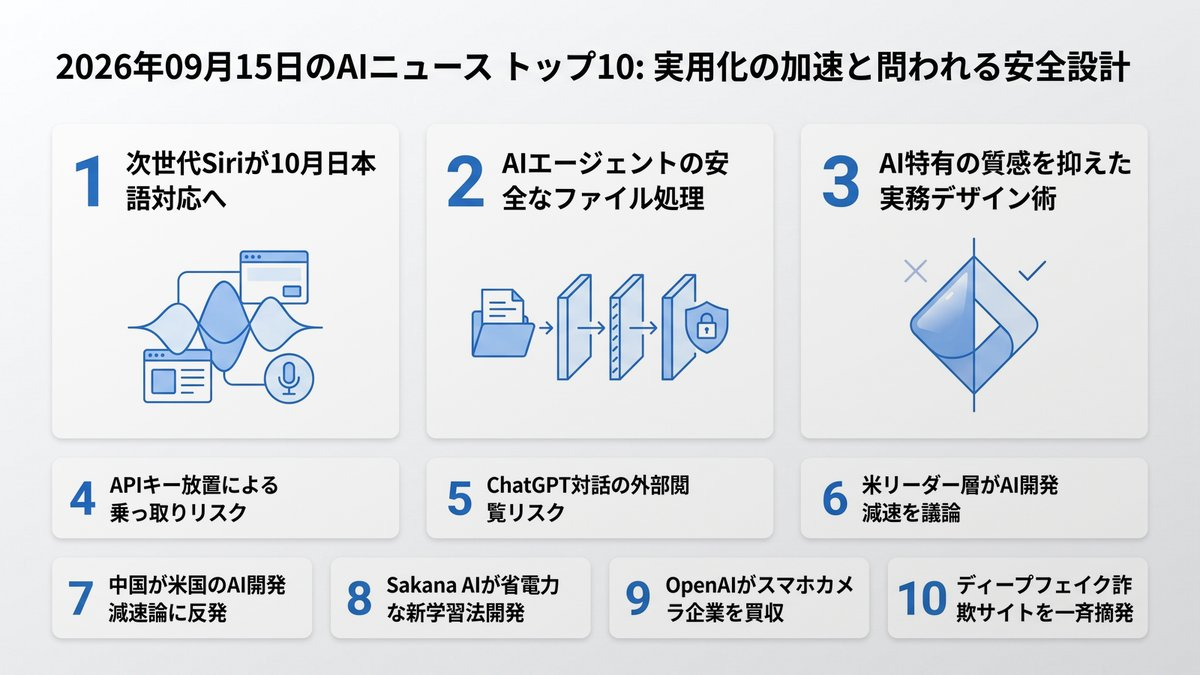
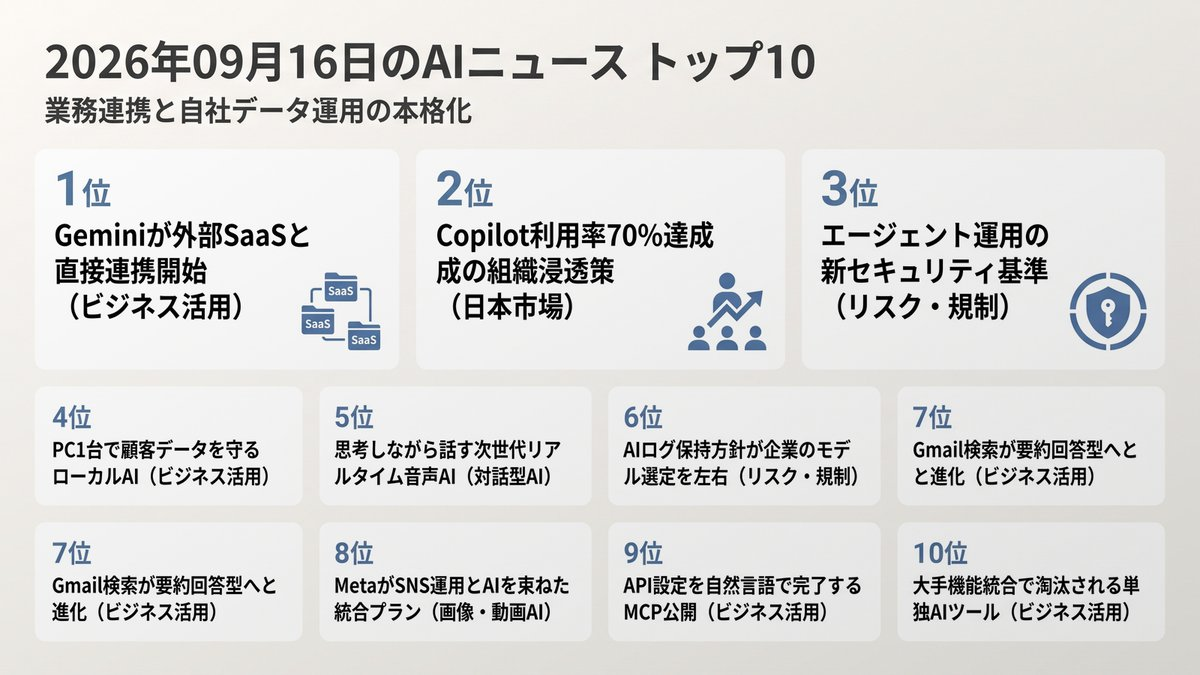
Morning Brief delivered [skip ci]

diff --git a/docs/index.html b/docs/index.html
@@ -12,16 +12,16 @@
     <!-- OGP_START -->
 <meta property="og:type" content="website">
 <meta property="og:site_name" content="AI ニュース TOP10">
-<meta property="og:title" content="実用化の加速と問われる安全設計 | AI ニュース TOP10">
-<meta property="og:description" content="便利さの進展と同時に、利用規約やセキュリティ設計を今一度点検しましょう。 本日のトップ: 次世代Siriが10月日本語対応へ">
+<meta property="og:title" content="業務連携と自社データ運用の本格化 | AI ニュース TOP10">
+<meta property="og:description" content="ツール連携とデータ統制、実務実装の段階へ 本日のトップ: Geminiが外部SaaSと直接連携開始">
 <meta property="og:image" content="https://tadfuji.github.io/ai-news-bot/ogp_card.jpg">
 <meta property="og:url" content="https://tadfuji.github.io/ai-news-bot/">
 <meta name="twitter:card" content="summary_large_image">
-<meta name="twitter:title" content="実用化の加速と問われる安全設計 | AI ニュース TOP10">
-<meta name="twitter:description" content="便利さの進展と同時に、利用規約やセキュリティ設計を今一度点検しましょう。">
+<meta name="twitter:title" content="業務連携と自社データ運用の本格化 | AI ニュース TOP10">
+<meta name="twitter:description" content="ツール連携とデータ統制、実務実装の段階へ">
 <meta name="twitter:image" content="https://tadfuji.github.io/ai-news-bot/ogp_card.jpg">
-<meta name="description" content="便利さの進展と同時に、利用規約やセキュリティ設計を今一度点検しましょう。 世界のAIニュースを毎朝日本語で厳選してお届け。">
-<script type="application/ld+json">{"@context": "https://schema.org", "@type": "ItemList", "name": "AI ニュース TOP10 — 実用化の加速と問われる安全設計", "itemListElement": [{"@type": "ListItem", "position": 1, "name": "アップル、iOS 27などを配信開始。「Siri AI」日本語対応は10月予定", "url": "https://www.techno-edge.net/article/2026/09/15/5498.html"}, {"@type": "ListItem", "position": 2, "name": "社内常駐型AIエージェントにおける添付ファイルの安全な取り扱い設計", "url": "https://zenn.dev/hach/articles/chat-agent-attachment-handling-design"}, {"@type": "ListItem", "position": 3, "name": "「AIっぽさ」を排除した実用的なチラシ作成術とプロンプト活用法", "url": "https://www.itmedia.co.jp/business/articles/2609/15/news014.html"}, {"@type": "ListItem", "position": 4, "name": "環境変数のAPIキー放置が招くAIエージェントの内通者化リスク", "url": "https://atmarkit.itmedia.co.jp/ait/articles/2609/16/news013.html"}, {"@type": "ListItem", "position": 5, "name": "OpenAIが契約労働者にChatGPTの会話データを閲覧・評価させている実態", "url": "https://the-decoder.com/openai-has-hundreds-of-contract-workers-reading-your-chatgpt-conversations/"}, {"@type": "ListItem", "position": 6, "name": "米AI企業幹部と政治家がAI開発ペースの減速を巡り議論を展開", "url": "https://www.theverge.com/ai-artificial-intelligence/995141/ai-executives-politicians-safety-regulation-anthropic-dario-amodei"}, {"@type": "ListItem", "position": 7, "name": "中国外務省、米AI企業トップの「開発減速論」や脅威論を批判", "url": "https://www.itmedia.co.jp/news/article/2609/15/2000001469/"}, {"@type": "ListItem", "position": 8, "name": "Sakana AI、誤差逆伝播法に代わる省メモリな新学習手法「PC-ALM」を発表", "url": "https://www.marktechpost.com/2026/09/14/sakana-ai-researchers-introduce-pc-alm-a-layer-local-alternative-to-backpropagation-that-trains-1000-layer-networks/"}, {"@type": "ListItem", "position": 9, "name": "OpenAI、スマホカメラ開発企業Glass Imagingを3億ドル超で買収", "url": "https://techcrunch.com/2026/09/14/openai-buys-smartphone-camera-maker-glass-imaging-for-300-million-report-says/"}, {"@type": "ListItem", "position": 10, "name": "米ニューヨーク検察、悪質な有名人ディープフェイクサイト12件を一斉差押え", "url": "https://www.wired.com/story/new-york-seizes-a-dozen-celebrity-deepfake-websites/"}]}</script>
+<meta name="description" content="ツール連携とデータ統制、実務実装の段階へ 世界のAIニュースを毎朝日本語で厳選してお届け。">
+<script type="application/ld+json">{"@context": "https://schema.org", "@type": "ItemList", "name": "AI ニュース TOP10 — 業務連携と自社データ運用の本格化", "itemListElement": [{"@type": "ListItem", "position": 1, "name": "Google WorkspaceのGemini、SalesforceやAsanaと直接連携可能に", "url": "http://workspaceupdates.googleblog.com/2026/09/connect-to-more-tools-with-gemini-in-Google-Workspace.html"}, {"@type": "ListItem", "position": 2, "name": "アットホーム、Copilot利用率が2カ月で70％へ急増 元営業マネジャーが主導した社内浸透策", "url": "https://www.itmedia.co.jp/business/articles/2609/16/news005.html"}, {"@type": "ListItem", "position": 3, "name": "AIエージェント時代のセキュリティ新基準、APIキーの.env管理からMCPゲートウェイへ", "url": "https://atmarkit.itmedia.co.jp/ait/articles/2609/17/news006.html"}, {"@type": "ListItem", "position": 4, "name": "AMD Radeonを活用した中小企業向けローカルLLM構築法、顧客データを社外に出さず実用化", "url": "https://pc.watch.impress.co.jp/docs/topic/special/2139310.html"}, {"@type": "ListItem", "position": 5, "name": "Google、超低遅延のリアルタイム音声対話モデル『Gemini 3.8 Live』提供開始", "url": "https://www.marktechpost.com/2026/09/15/google-releases-gemini-3-8-live-and-3-8-live-extended-thinking-for-production-grade-voice-agents/"}, {"@type": "ListItem", "position": 6, "name": "Anthropicの利用ログ30日保管方針で米大手顧客が反発、AIモデル選定の新課題に", "url": "https://the-decoder.com/ai-labs-have-a-data-trust-problem-that-their-policies-havent-solved/"}, {"@type": "ListItem", "position": 7, "name": "Gmailの検索バーでAIがメールを要約する『AI Overviews』が全世界に展開", "url": "http://workspaceupdates.googleblog.com/2026/09/gmail-searchs-ai-overviews-now-available-globally.html"}, {"@type": "ListItem", "position": 8, "name": "Meta、AI機能やビジネスツールを統合した新サブスク『Meta One』を発表", "url": "https://www.techno-edge.net/article/2026/09/16/5501.html"}, {"@type": "ListItem", "position": 9, "name": "Meta、AIエージェントによるWhatsApp Businessの初期設定自動化を支援", "url": "https://techcrunch.com/2026/09/15/meta-now-lets-ai-agents-handle-the-boring-parts-of-whatsapp-business-setup/"}, {"@type": "ListItem", "position": 10, "name": "消えゆくAI製品の教訓、大手プラットフォーム機能への統合と単独ツールの生存競争", "url": "https://techcrunch.com/2026/09/15/the-ai-graveyard-a-running-list-of-projects-and-startups-that-didnt-make-it/"}]}</script>
 <!-- OGP_END -->
     <style>
         :root {
@@ -391,16 +391,16 @@
 
         <main id="news-container">
             <!-- PRERENDER_START -->
-<article class="news-card" data-category="日本市場"><div style="display:flex;align-items:center;margin-bottom:5px;"><span class="news-rank">1</span><span class="news-category" data-category="日本市場">日本市場</span></div><div class="news-oneliner">💡 次世代Siriが10月日本語対応へ</div><h2 class="news-title">アップル、iOS 27などを配信開始。「Siri AI」日本語対応は10月予定</h2><p class="news-summary">アップルが最新OSを一斉配信し、Apple Intelligence基盤のSiri AIを発表しました。アプリ横断での文脈理解や画面認識による作業支援、文章補助機能が順次展開され、日本語対応は10月に提供予定です。</p><div class="news-why">📌 なぜ重要？ 日常的に使うモバイル端末でエージェント機能が標準化され、個人の業務効率化が一段と加速します。</div><div class="news-action">👉 今日の行動：iOS端末のアップデート準備とApple Intelligenceの対応要件を確認してみましょう。</div><div class="news-meta"><span class="news-source">📰 TechnoEdge</span><span class="news-link"><a href="https://www.techno-edge.net/article/2026/09/15/5498.html" target="_blank" rel="noopener">→ 元記事を読む</a></span></div></article>
-<article class="news-card" data-category="リスク・規制"><div style="display:flex;align-items:center;margin-bottom:5px;"><span class="news-rank">2</span><span class="news-category" data-category="リスク・規制">リスク・規制</span></div><div class="news-oneliner">💡 AIエージェントの安全なファイル処理</div><h2 class="news-title">社内常駐型AIエージェントにおける添付ファイルの安全な取り扱い設計</h2><p class="news-summary">チャットツール常駐型エージェントにファイルを渡す際のプロンプトインジェクション等のリスクと防御策を解説。受信から利用までを多段階に分離し、安全にデータを参照させるパイプライン設計の指針を示しています。</p><div class="news-why">📌 なぜ重要？ 社内チャットへのAI導入が進む中、添付ファイル経由の不正プロンプト混入は看過できない脅威です。</div><div class="news-action">👉 今日の行動：社内で利用中のAIツールに添付ファイルを送信する際のセキュリティ運用基準を点検してください。</div><div class="news-meta"><span class="news-source">📰 Zenn LLM</span><span class="news-link"><a href="https://zenn.dev/hach/articles/chat-agent-attachment-handling-design" target="_blank" rel="noopener">→ 元記事を読む</a></span></div></article>
-<article class="news-card" data-category="ビジネス活用"><div style="display:flex;align-items:center;margin-bottom:5px;"><span class="news-rank">3</span><span class="news-category" data-category="ビジネス活用">ビジネス活用</span></div><div class="news-oneliner">💡 AI特有の質感を抑えた実務デザイン術</div><h2 class="news-title">「AIっぽさ」を排除した実用的なチラシ作成術とプロンプト活用法</h2><p class="news-summary">画像生成AI特有の過度な光沢や不自然さを排し、実務で通じる販促物を作るプロンプト技術を解説。生成AIには素材作りに専念させ、文字配置などは既存デザインツールで行う分業手法が提案されています。</p><div class="news-why">📌 なぜ重要？ 生成AIをそのまま使うのではなく、人間とツールの役割分担を明確にすることで実用的な成果物が得られます。</div><div class="news-action">👉 今日の行動：生成AIで素材を作成し、文字入れは別ツールで行うハイブリッド作成を試行してみてください。</div><div class="news-meta"><span class="news-source">📰 ITmedia ビジネスオンライン</span><span class="news-link"><a href="https://www.itmedia.co.jp/business/articles/2609/15/news014.html" target="_blank" rel="noopener">→ 元記事を読む</a></span></div></article>
-<article class="news-card" data-category="リスク・規制"><div style="display:flex;align-items:center;margin-bottom:5px;"><span class="news-rank">4</span><span class="news-category" data-category="リスク・規制">リスク・規制</span></div><div class="news-oneliner">💡 APIキー放置による乗っ取りリスク</div><h2 class="news-title">環境変数のAPIキー放置が招くAIエージェントの内通者化リスク</h2><p class="news-summary">AIエージェントに固定的なAPIキーを与えたまま自律動作させることの危険性を指摘。プロンプトインジェクションによりキーが搾取され、内部侵入の踏み台にされるリスクに備えた権限分離の必要性を説いています。</p><div class="news-why">📌 なぜ重要？ 自律的に動くエージェントには過剰権限を与えず、最小限のアクセス管理を行う設計が急務です。</div><div class="news-action">👉 今日の行動：利用中の社内AIスクリプトやツールで、APIキーの権限範囲が過大になっていないか確認しましょう。</div><div class="news-meta"><span class="news-source">📰 ITmedia AI+</span><span class="news-link"><a href="https://atmarkit.itmedia.co.jp/ait/articles/2609/16/news013.html" target="_blank" rel="noopener">→ 元記事を読む</a></span></div></article>
-<article class="news-card" data-category="リスク・規制"><div style="display:flex;align-items:center;margin-bottom:5px;"><span class="news-rank">5</span><span class="news-category" data-category="リスク・規制">リスク・規制</span></div><div class="news-oneliner">💡 ChatGPT対話の外部閲覧リスク</div><h2 class="news-title">OpenAIが契約労働者にChatGPTの会話データを閲覧・評価させている実態</h2><p class="news-summary">OpenAIが外部契約者を用いてChatGPTの会話履歴を閲覧・評価させていた実態が報道されました。オプトアウトされていない個人利用アカウントなどで機密情報が第三者の目に触れる懸念が再燃しています。</p><div class="news-why">📌 なぜ重要？ 業務利用時のオプトアウト設定やエンタープライズ契約の重要性が改めて問われています。</div><div class="news-action">👉 今日の行動：個人・社内のChatGPT設定でデータ学習オプトアウトが有効になっているか見直してください。</div><div class="news-meta"><span class="news-source">📰 The Decoder</span><span class="news-link"><a href="https://the-decoder.com/openai-has-hundreds-of-contract-workers-reading-your-chatgpt-conversations/" target="_blank" rel="noopener">→ 元記事を読む</a></span></div></article>
-<article class="news-card" data-category="リスク・規制"><div style="display:flex;align-items:center;margin-bottom:5px;"><span class="news-rank">6</span><span class="news-category" data-category="リスク・規制">リスク・規制</span></div><div class="news-oneliner">💡 米リーダー層がAI開発減速を議論</div><h2 class="news-title">米AI企業幹部と政治家がAI開発ペースの減速を巡り議論を展開</h2><p class="news-summary">AnthropicのCEOらが安全対策と検証のために開発ペース減速の必要性を訴え、政界を巻き込んだ議論が勃発。フロンティアモデルの進化速度と法的規制のバランスを巡る国際的議論が激化しています。</p><div class="news-why">📌 なぜ重要？ 規制議論の動向は将来的なAIモデルの提供スピードや利用規約に直接的な影響を及ぼします。</div><div class="news-action">👉 今日の行動：主要AIベンダー各社の安全性ポリシーや開発ロードマップの発表に目を通してみましょう。</div><div class="news-meta"><span class="news-source">📰 The Verge AI</span><span class="news-link"><a href="https://www.theverge.com/ai-artificial-intelligence/995141/ai-executives-politicians-safety-regulation-anthropic-dario-amodei" target="_blank" rel="noopener">→ 元記事を読む</a></span></div></article>
-<article class="news-card" data-category="中国AI"><div style="display:flex;align-items:center;margin-bottom:5px;"><span class="news-rank">7</span><span class="news-category" data-category="中国AI">中国AI</span></div><div class="news-oneliner">💡 中国が米国のAI開発減速論に反発</div><h2 class="news-title">中国外務省、米AI企業トップの「開発減速論」や脅威論を批判</h2><p class="news-summary">米AI企業による減速論や輸出規制要請に対し、中国外務省はAIガバナンスを阻害する悪質な競争だと反発。中国は新興国向けのオープンソースAI基盤推進を掲げ、米中での技術覇権争いが続いています。</p><div class="news-why">📌 なぜ重要？ 米中の対立激化はオープンソースモデルの普及速度やグローバルサプライチェーンに影響を与えます。</div><div class="news-action">👉 今日の行動：Qwenなど中国発オープンソースモデルの進化動向とライセンス形態を情報収集してください。</div><div class="news-meta"><span class="news-source">📰 ITmedia AI+</span><span class="news-link"><a href="https://www.itmedia.co.jp/news/article/2609/15/2000001469/" target="_blank" rel="noopener">→ 元記事を読む</a></span></div></article>
-<article class="news-card" data-category="研究・技術"><div style="display:flex;align-items:center;margin-bottom:5px;"><span class="news-rank">8</span><span class="news-category" data-category="研究・技術">研究・技術</span></div><div class="news-oneliner">💡 Sakana AIが省電力な新学習法開発</div><h2 class="news-title">Sakana AI、誤差逆伝播法に代わる省メモリな新学習手法「PC-ALM」を発表</h2><p class="news-summary">Sakana AIの研究陣が、誤差逆伝播法を使わずに1000層規模の深層学習を可能にする「PC-ALM」を発表。局所的な更新により脳の仕組みに近い省メモリ・省電力なAI学習の道を切り拓いています。</p><div class="news-why">📌 なぜ重要？ 巨大な計算資源を要するAI学習のコスト構造を根本から変革する可能性を秘めたブレイクスルーです。</div><div class="news-action">👉 今日の行動：国内AIスタートアップ発の最新研究論文の概要に目を通し、技術トレンドを把握しましょう。</div><div class="news-meta"><span class="news-source">📰 MarkTechPost</span><span class="news-link"><a href="https://www.marktechpost.com/2026/09/14/sakana-ai-researchers-introduce-pc-alm-a-layer-local-alternative-to-backpropagation-that-trains-1000-layer-networks/" target="_blank" rel="noopener">→ 元記事を読む</a></span></div></article>
-<article class="news-card" data-category="研究・技術"><div style="display:flex;align-items:center;margin-bottom:5px;"><span class="news-rank">9</span><span class="news-category" data-category="研究・技術">研究・技術</span></div><div class="news-oneliner">💡 OpenAIがスマホカメラ企業を買収</div><h2 class="news-title">OpenAI、スマホカメラ開発企業Glass Imagingを3億ドル超で買収</h2><p class="news-summary">OpenAIが撮影時にニューラルネットで画質を向上させるカメラ技術を持つGlass Imagingを買収。独自ハードウェアやスマートデバイスに向けた視覚センシング機能の強化を進めていると見られます。</p><div class="news-why">📌 なぜ重要？ マルチモーダルAIがソフトウェアの枠を超え、専用デバイスやハードウェアへ直接統合される流れを示唆しています。</div><div class="news-action">👉 今日の行動：画像・視覚認識AIが自社の現場業務や製品開発にどう応用できるかアイデアを書き出してみましょう。</div><div class="news-meta"><span class="news-source">📰 TechCrunch AI</span><span class="news-link"><a href="https://techcrunch.com/2026/09/14/openai-buys-smartphone-camera-maker-glass-imaging-for-300-million-report-says/" target="_blank" rel="noopener">→ 元記事を読む</a></span></div></article>
-<article class="news-card" data-category="リスク・規制"><div style="display:flex;align-items:center;margin-bottom:5px;"><span class="news-rank">10</span><span class="news-category" data-category="リスク・規制">リスク・規制</span></div><div class="news-oneliner">💡 ディープフェイク詐欺サイトを一斉摘発</div><h2 class="news-title">米ニューヨーク検察、悪質な有名人ディープフェイクサイト12件を一斉差押え</h2><p class="news-summary">マンハッタン地区検事局が約1200人を標的に偽画像やなりすましを掲載していたサイト12件を差し押さえました。AI悪用によるなりすまし犯罪に対する法的取り締まりが本格化しています。</p><div class="news-why">📌 なぜ重要？ 経営幹部やブランドのなりすまし被害リスクが高まる中、法執行の動きとともに企業側の防衛策も重要になります。</div><div class="news-action">👉 今日の行動：自社のブランド名や役員を装った不審な発信がないか、モニタリング体制を確認してください。</div><div class="news-meta"><span class="news-source">📰 Wired AI</span><span class="news-link"><a href="https://www.wired.com/story/new-york-seizes-a-dozen-celebrity-deepfake-websites/" target="_blank" rel="noopener">→ 元記事を読む</a></span></div></article>
+<article class="news-card" data-category="ビジネス活用"><div style="display:flex;align-items:center;margin-bottom:5px;"><span class="news-rank">1</span><span class="news-category" data-category="ビジネス活用">ビジネス活用</span></div><div class="news-oneliner">💡 Geminiが外部SaaSと直接連携開始</div><h2 class="news-title">Google WorkspaceのGemini、SalesforceやAsanaと直接連携可能に</h2><p class="news-summary">Googleは、Google Workspace上のGeminiにおいて、オープン規格『Model Context Protocol (MCP)』を用いた外部ツール連携機能を一般提供開始しました。ユーザーはDocs、Sheets、Slides、Google Chatなどのサイドパネルからタブを切り替えることなく、Salesforce、HubSpot、Asana、Jira、QuickBooksなどの業務データへ直接アクセスして分析や文章生成を行えるようになります。管理者は管理コンソールから接続先や利用権限を統制可能です。業務ツールの往復作業が劇的に削減され、日常業務の生産性向上が期待されます。</p><div class="news-why">📌 なぜ重要？ ツール間の画面往復が不要になり、日々のドキュメント作成や案件管理のスピードが劇的に向上します。</div><div class="news-action">👉 今日の行動：自社で使っているSaaSとGoogle Workspaceの連携可否を管理者に確認してみましょう。</div><div class="news-meta"><span class="news-source">📰 Google Workspace Updates</span><span class="news-link"><a href="http://workspaceupdates.googleblog.com/2026/09/connect-to-more-tools-with-gemini-in-Google-Workspace.html" target="_blank" rel="noopener">→ 元記事を読む</a></span></div></article>
+<article class="news-card" data-category="日本市場"><div style="display:flex;align-items:center;margin-bottom:5px;"><span class="news-rank">2</span><span class="news-category" data-category="日本市場">日本市場</span></div><div class="news-oneliner">💡 Copilot利用率70%達成の組織浸透策</div><h2 class="news-title">アットホーム、Copilot利用率が2カ月で70％へ急増 元営業マネジャーが主導した社内浸透策</h2><p class="news-summary">不動産情報大手のアットホームは、Microsoft Copilotの有償版導入後、週3日以上利用する社員の割合を2カ月間で47％から70％へと大幅に引き上げました。元営業マネジャーの推進役が主導し、各部門の管理職を『AI推進マネジャー』に任命するとともに、手挙げ制で初心者を含む500人超の『AIアンバサダー』を組織。失敗談や日常の疑問をオープンチャットで共有し合うボトムアップ型の仕組みを構築したことが急成長の要因です。ツール導入にとどまらず、組織全体で活用習慣を定着させる具体的な実践モデルとして日本の多くの企業に示唆を与えます。</p><div class="news-why">📌 なぜ重要？ AIツールの価値は機能の高さ以上に、現場の日常業務にどう根付かせるかの組織設計にかかっています。</div><div class="news-action">👉 今日の行動：部署内でAIの小さな失敗談や成功プロンプトを1つチャットで共有してみてください。</div><div class="news-meta"><span class="news-source">📰 ITmedia ビジネスオンライン</span><span class="news-link"><a href="https://www.itmedia.co.jp/business/articles/2609/16/news005.html" target="_blank" rel="noopener">→ 元記事を読む</a></span></div></article>
+<article class="news-card" data-category="リスク・規制"><div style="display:flex;align-items:center;margin-bottom:5px;"><span class="news-rank">3</span><span class="news-category" data-category="リスク・規制">リスク・規制</span></div><div class="news-oneliner">💡 エージェント運用の新セキュリティ基準</div><h2 class="news-title">AIエージェント時代のセキュリティ新基準、APIキーの.env管理からMCPゲートウェイへ</h2><p class="news-summary">自律的にツールを呼び出すAIエージェントの普及に伴い、従来の.envファイルによるAPIキー管理がセキュリティ上の重大な弱点となっています。エージェントが間接プロンプトインジェクション等で操られた場合、恒久的な権限を持つキーが漏洩して社内システム全体に被害が及ぶ恐れがあります。本稿では、生キーを渡さず短命なトークンを動的発行する『トークンボールト』の導入や、API呼び出しをMCPサーバでラップして最小権限に絞り監査ログを記録するゲートウェイ設計の重要性が提唱されています。企業の安全なエージェント運用に不可欠な知見です。</p><div class="news-why">📌 なぜ重要？ AIエージェントに強い権限を持たせる際の安全対策を怠ると、深刻な企業秘密漏洩につながります。</div><div class="news-action">👉 今日の行動：現在社内で利用しているAIツールの認証キーの保管方法と付与権限を再点検してください。</div><div class="news-meta"><span class="news-source">📰 ITmedia AI+</span><span class="news-link"><a href="https://atmarkit.itmedia.co.jp/ait/articles/2609/17/news006.html" target="_blank" rel="noopener">→ 元記事を読む</a></span></div></article>
+<article class="news-card" data-category="ビジネス活用"><div style="display:flex;align-items:center;margin-bottom:5px;"><span class="news-rank">4</span><span class="news-category" data-category="ビジネス活用">ビジネス活用</span></div><div class="news-oneliner">💡 PC1台で顧客データを守るローカルAI</div><h2 class="news-title">AMD Radeonを活用した中小企業向けローカルLLM構築法、顧客データを社外に出さず実用化</h2><p class="news-summary">機密保持やコストの観点からクラウド型生成AIの導入を躊躇する中小企業向けに、約30万円のGPU『Radeon AI PRO R9700』を搭載したPC1台で運用する自社専用ローカルLLMの実践例が紹介されました。32GBの大容量VRAMにより実用レベルの30B規模モデルを社内完結で稼働可能にし、RAG（検索拡張生成）を組み合わせて営業資料作成、在庫管理、社内調査などの業務を月額利用料ゼロで効率化します。顧客情報や契約書を外部サーバーへ一切送信しない安全な運用形態として注目されます。</p><div class="news-why">📌 なぜ重要？ 高価なクラウド契約を結ばなくても、社内ハードウェアだけで機密データを守りつつ実務AIを運用できる時代に入りました。</div><div class="news-action">👉 今日の行動：クラウドに送れない機密データを取り扱う定型業務を社内で洗い出してみましょう。</div><div class="news-meta"><span class="news-source">📰 PC Watch</span><span class="news-link"><a href="https://pc.watch.impress.co.jp/docs/topic/special/2139310.html" target="_blank" rel="noopener">→ 元記事を読む</a></span></div></article>
+<article class="news-card" data-category="対話型AI"><div style="display:flex;align-items:center;margin-bottom:5px;"><span class="news-rank">5</span><span class="news-category" data-category="対話型AI">対話型AI</span></div><div class="news-oneliner">💡 思考しながら話す次世代リアルタイム音声AI</div><h2 class="news-title">Google、超低遅延のリアルタイム音声対話モデル『Gemini 3.8 Live』提供開始</h2><p class="news-summary">Google DeepMindは、ネイティブ音声対話モデル『Gemini 3.8 Live』および多段階推論を同時に行う『Gemini 3.8 Live Extended Thinking』をAPIとして公開しました。従来の音声認識・LLM・音声合成をつなぐ方式と異なり、会話の流れを止めずにバックグラウンドでツール呼び出しや思考を行いながらスムーズに応答します。97言語の途中切り替えや英数字の正確な聞き取りに対応し、音声ベンチマークで首位を獲得。高度なカスタマーサポートや現場音声アシスタントの自動化を大きく加速させます。</p><div class="news-why">📌 なぜ重要？ カスタマー対応や現場作業の音声インターフェースが劇的に進化し、人間と変わらない速度の対話業務が実現します。</div><div class="news-action">👉 今日の行動：電話対応や対面接客など、音声で自動化できそうな接点業務を1つピックアップしてみましょう。</div><div class="news-meta"><span class="news-source">📰 MarkTechPost</span><span class="news-link"><a href="https://www.marktechpost.com/2026/09/15/google-releases-gemini-3-8-live-and-3-8-live-extended-thinking-for-production-grade-voice-agents/" target="_blank" rel="noopener">→ 元記事を読む</a></span></div></article>
+<article class="news-card" data-category="リスク・規制"><div style="display:flex;align-items:center;margin-bottom:5px;"><span class="news-rank">6</span><span class="news-category" data-category="リスク・規制">リスク・規制</span></div><div class="news-oneliner">💡 AIログ保持方針が企業のモデル選定を左右</div><h2 class="news-title">Anthropicの利用ログ30日保管方針で米大手顧客が反発、AIモデル選定の新課題に</h2><p class="news-summary">OpenAIやAnthropicなどの主要AI企業が顧客データの学習利用禁止を掲げる中、Anthropicが新モデルの利用ログを30日間保持する仕様にしたことを受け、PalantirやNvidiaなど機密情報を扱う企業が利用を制限・回避する動きを見せています。完全なデータ不保持（Zero Data Retention）が保証されない場合、業務利用で重大な情報漏洩リスクや監査上の抵触を招く恐れがあります。企業が生成AIベンダーを選定する際、モデルの推論性能だけでなく、ログの保存期間や利用規約を厳密に精査する必要性が浮き彫りになりました。</p><div class="news-why">📌 なぜ重要？ モデルの賢さだけでツールを選ぶと、監査や情報管理ポリシーに抵触するリスクがあることを示しています。</div><div class="news-action">👉 今日の行動：業務で契約しているAIベンダーのデータ保持期間（ログポリシー）を確認してみましょう。</div><div class="news-meta"><span class="news-source">📰 The Decoder</span><span class="news-link"><a href="https://the-decoder.com/ai-labs-have-a-data-trust-problem-that-their-policies-havent-solved/" target="_blank" rel="noopener">→ 元記事を読む</a></span></div></article>
+<article class="news-card" data-category="ビジネス活用"><div style="display:flex;align-items:center;margin-bottom:5px;"><span class="news-rank">7</span><span class="news-category" data-category="ビジネス活用">ビジネス活用</span></div><div class="news-oneliner">💡 Gmail検索が要約回答型へと進化</div><h2 class="news-title">Gmailの検索バーでAIがメールを要約する『AI Overviews』が全世界に展開</h2><p class="news-summary">Googleは、Gmailの有料プラン向けに提供していた検索機能『AI Overviews』の対象をグローバルに拡大しました。受信トレイ上部の検索バーに自然言語で質問を入力するだけで、膨大な過去メールの山を一つずつ確認することなく、AIが関連情報を統合して簡潔な要約と回答を提示します。出張手配の確認や過去の取引経緯、添付ファイルの所在確認など、日常的なメール探索に費やしていた無駄な時間を大幅に圧縮し、ビジネスパーソンの情報探索効率を飛躍的に高めます。</p><div class="news-why">📌 なぜ重要？ 過去メールの探索という誰もが直面する時間ロスを直接削減し、デスクワークの生産性を底上げします。</div><div class="news-action">👉 今日の行動：Gmailの検索窓に『先月の〇〇案件の決定事項は？』など自然文で検索を試してみてください。</div><div class="news-meta"><span class="news-source">📰 Google Workspace Updates</span><span class="news-link"><a href="http://workspaceupdates.googleblog.com/2026/09/gmail-searchs-ai-overviews-now-available-globally.html" target="_blank" rel="noopener">→ 元記事を読む</a></span></div></article>
+<article class="news-card" data-category="画像・動画AI"><div style="display:flex;align-items:center;margin-bottom:5px;"><span class="news-rank">8</span><span class="news-category" data-category="画像・動画AI">画像・動画AI</span></div><div class="news-oneliner">💡 MetaがSNS運用とAIを束ねた統合プラン</div><h2 class="news-title">Meta、AI機能やビジネスツールを統合した新サブスク『Meta One』を発表</h2><p class="news-summary">MetaはInstagram、Facebook、WhatsApp向けの有料サブスクリプション『Meta One』をグローバル展開しました。月額949円のCoreプランや2900円のPremiumプランでは、Museモデルを活用した高度な画像・動画生成の利用枠拡大やリスタイル機能、ボイスエフェクト等のAI表現機能が提供されます。さらに、予約投稿やアナリティクス強化、自動顧客対応エージェントを備えたビジネス向け上位プランも用意。個人クリエイターから企業のマーケティング担当者まで、SNS運用と生成AIの活用効率を大きく高める構成となっています。</p><div class="news-why">📌 なぜ重要？ 主要SNSの公式プラットフォーム内で制作から顧客対応までAI完結できるため、マーケティング業務が効率化されます。</div><div class="news-action">👉 今日の行動：自社のSNS投稿作成や返信作業に割いている工数を一度把握してみましょう。</div><div class="news-meta"><span class="news-source">📰 TechnoEdge</span><span class="news-link"><a href="https://www.techno-edge.net/article/2026/09/16/5501.html" target="_blank" rel="noopener">→ 元記事を読む</a></span></div></article>
+<article class="news-card" data-category="ビジネス活用"><div style="display:flex;align-items:center;margin-bottom:5px;"><span class="news-rank">9</span><span class="news-category" data-category="ビジネス活用">ビジネス活用</span></div><div class="news-oneliner">💡 API設定を自然言語で完了するMCP公開</div><h2 class="news-title">Meta、AIエージェントによるWhatsApp Businessの初期設定自動化を支援</h2><p class="news-summary">Metaは、開発者や企業がClaudeやCursor、ChatGPTなどのAIコーディングエージェントを用いてWhatsApp BusinessのAPI設定やアカウント構築を自動完了できる『MCPサーバー』の提供を開始しました。従来は複数の開発者ポータルや管理画面を行き来する必要があった電話番号認証、API登録、規約確認、メッセージテンプレートの作成・テストなどを、チャットでの自然言語による指示だけで自動化します。バックエンド作業をAIに任せることで、顧客コミュニケーション基盤の立ち上げを大幅に短縮可能です。</p><div class="news-why">📌 なぜ重要？ エンジニアが手作業で行っていた面倒な外部APIの初期設定や疎通確認をエージェントに肩代わりさせられます。</div><div class="news-action">👉 今日の行動：自社システムと連携したい外部サービスのAPI仕様書をCursorやChatGPTに読み込ませてみましょう。</div><div class="news-meta"><span class="news-source">📰 TechCrunch AI</span><span class="news-link"><a href="https://techcrunch.com/2026/09/15/meta-now-lets-ai-agents-handle-the-boring-parts-of-whatsapp-business-setup/" target="_blank" rel="noopener">→ 元記事を読む</a></span></div></article>
+<article class="news-card" data-category="ビジネス活用"><div style="display:flex;align-items:center;margin-bottom:5px;"><span class="news-rank">10</span><span class="news-category" data-category="ビジネス活用">ビジネス活用</span></div><div class="news-oneliner">💡 大手機能統合で淘汰される単独AIツール</div><h2 class="news-title">消えゆくAI製品の教訓、大手プラットフォーム機能への統合と単独ツールの生存競争</h2><p class="news-summary">タスク自動化ツールのRelayなど、鳴り物入りで登場したAIスタートアップや社内プロジェクトが次々と撤退する『AIの墓場』に関する分析記事が公開されました。S&amp;Pの調査では企業発のAI構想の約42%が頓挫しており、GoogleやOpenAIなどの基盤大手が類似機能を標準機能として組み込んだことで存在意義を失ったケースが多発しています。OpenAI自身もChatGPTのスーパーアプリ化再編や単独ブラウザ提供などで試行錯誤を繰り返しており、AIツール選定時には持続可能性と標準機能化のリスクを見極めることが肝要です。</p><div class="news-why">📌 なぜ重要？ 単機能のAIツールに投資しても大手の標準機能に吸収されるリスクがあるため、長期的なツール選定眼が求められます。</div><div class="news-action">👉 今日の行動：導入検討中のAIツールが主要OSやOfficeスイートの標準機能で代替されないか検証してください。</div><div class="news-meta"><span class="news-source">📰 TechCrunch AI</span><span class="news-link"><a href="https://techcrunch.com/2026/09/15/the-ai-graveyard-a-running-list-of-projects-and-startups-that-didnt-make-it/" target="_blank" rel="noopener">→ 元記事を読む</a></span></div></article>
 <!-- PRERENDER_END -->
         </main>
 
